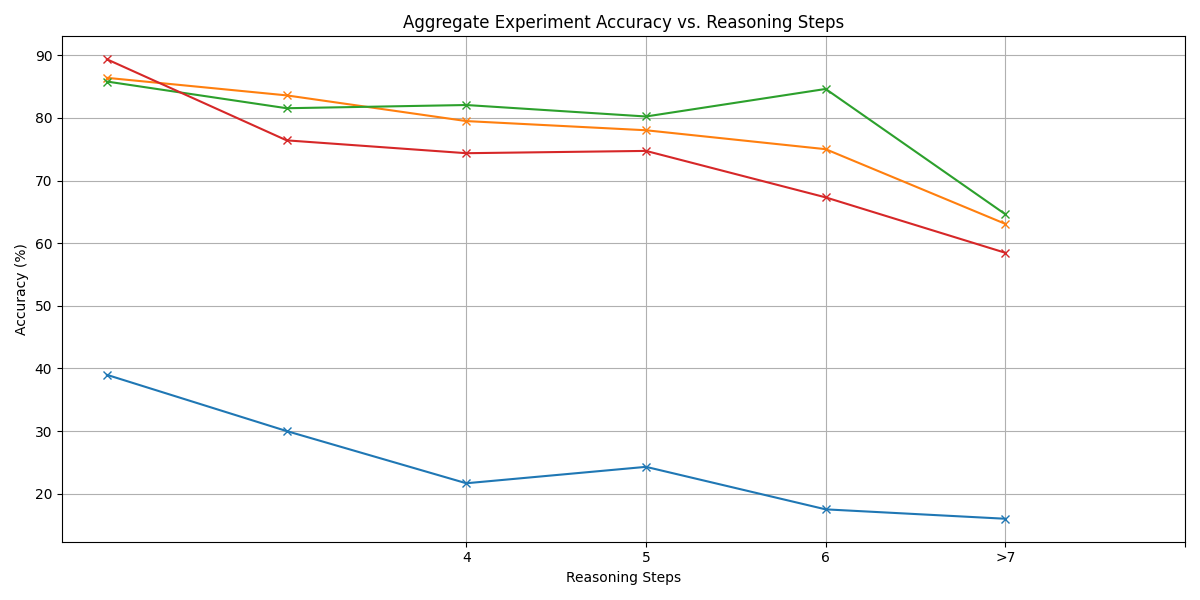
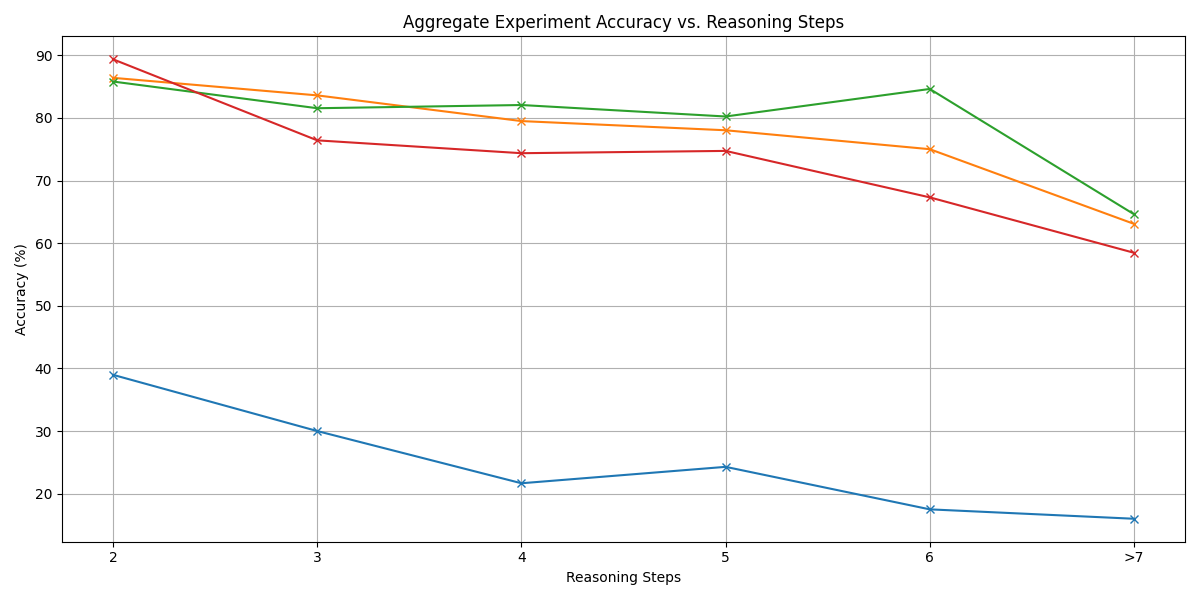
few more nits on plots

diff --git a/plot-reasoning-steps-diff.py b/plot-reasoning-steps-diff.py
@@ -160,7 +160,6 @@ def plot_aggregate_percent_difference(aggregated_results):
     plt.title("Aggregate Percent Difference from Baseline vs. Reasoning Steps")
     plt.xlabel("Reasoning Steps")
     plt.ylabel("Percent Difference (%)")
-    plt.xticks(range(2, 7))
     plt.grid(True)
     plt.tight_layout()
     plt.savefig(f"{OUTPUT_DIR}/aggregate_percent_difference.png")

diff --git a/analyze-all-reasoning-steps-plot.py b/analyze-all-reasoning-steps-plot.py
@@ -160,7 +160,6 @@ def plot_aggregate_results(aggregated_results):
     plt.title("Aggregate Experiment Accuracy vs. Reasoning Steps")
     plt.xlabel("Reasoning Steps")
     plt.ylabel("Accuracy (%)")
-    plt.xticks(range(2, 7))
     plt.grid(True)
     plt.tight_layout()
     plt.savefig(f"{OUTPUT_DIR}/aggregate_experiment.png")
